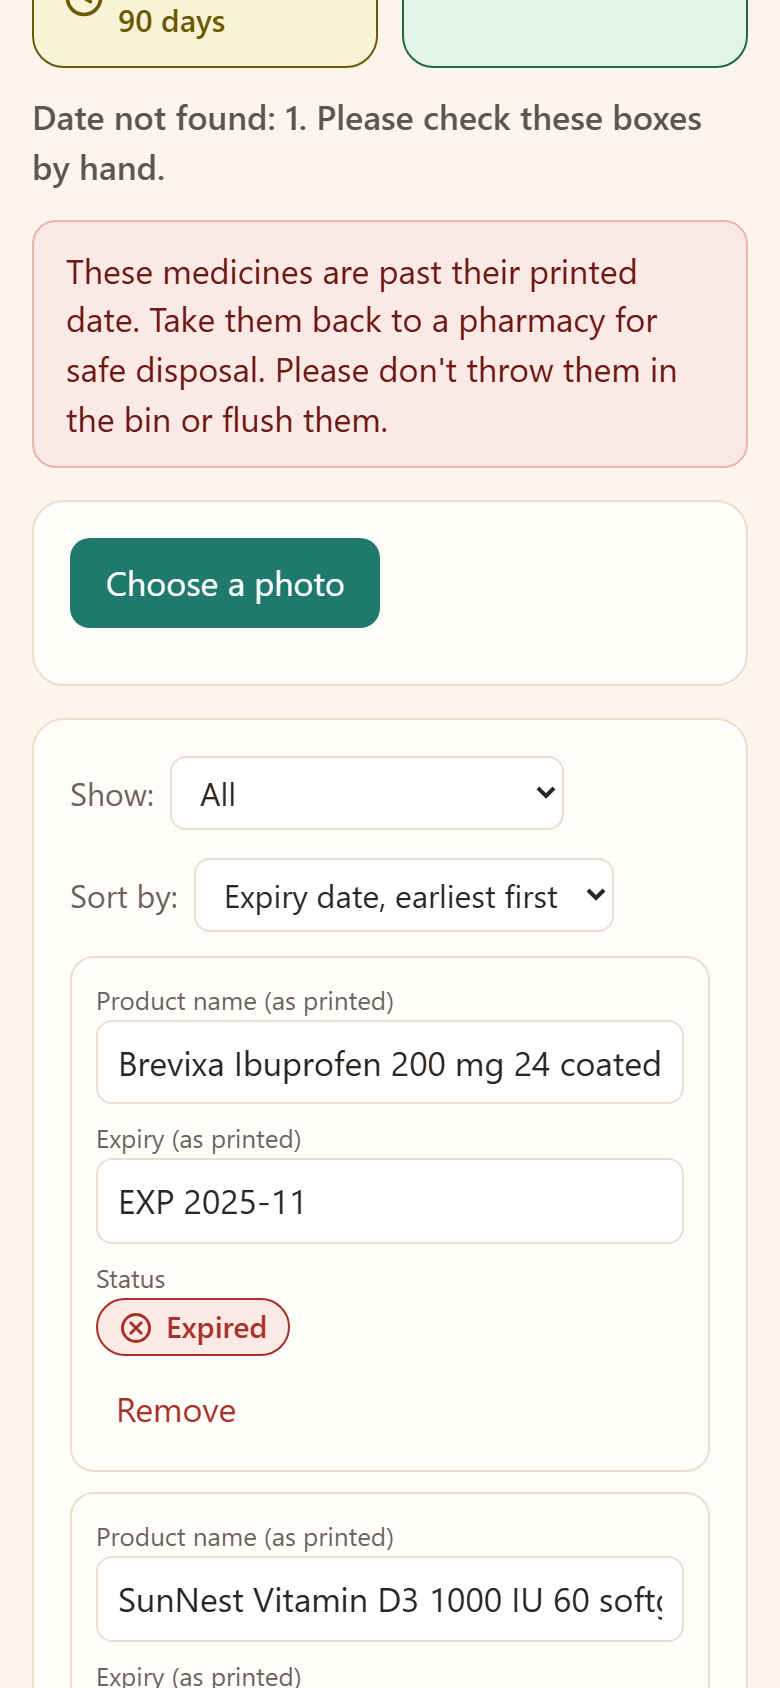
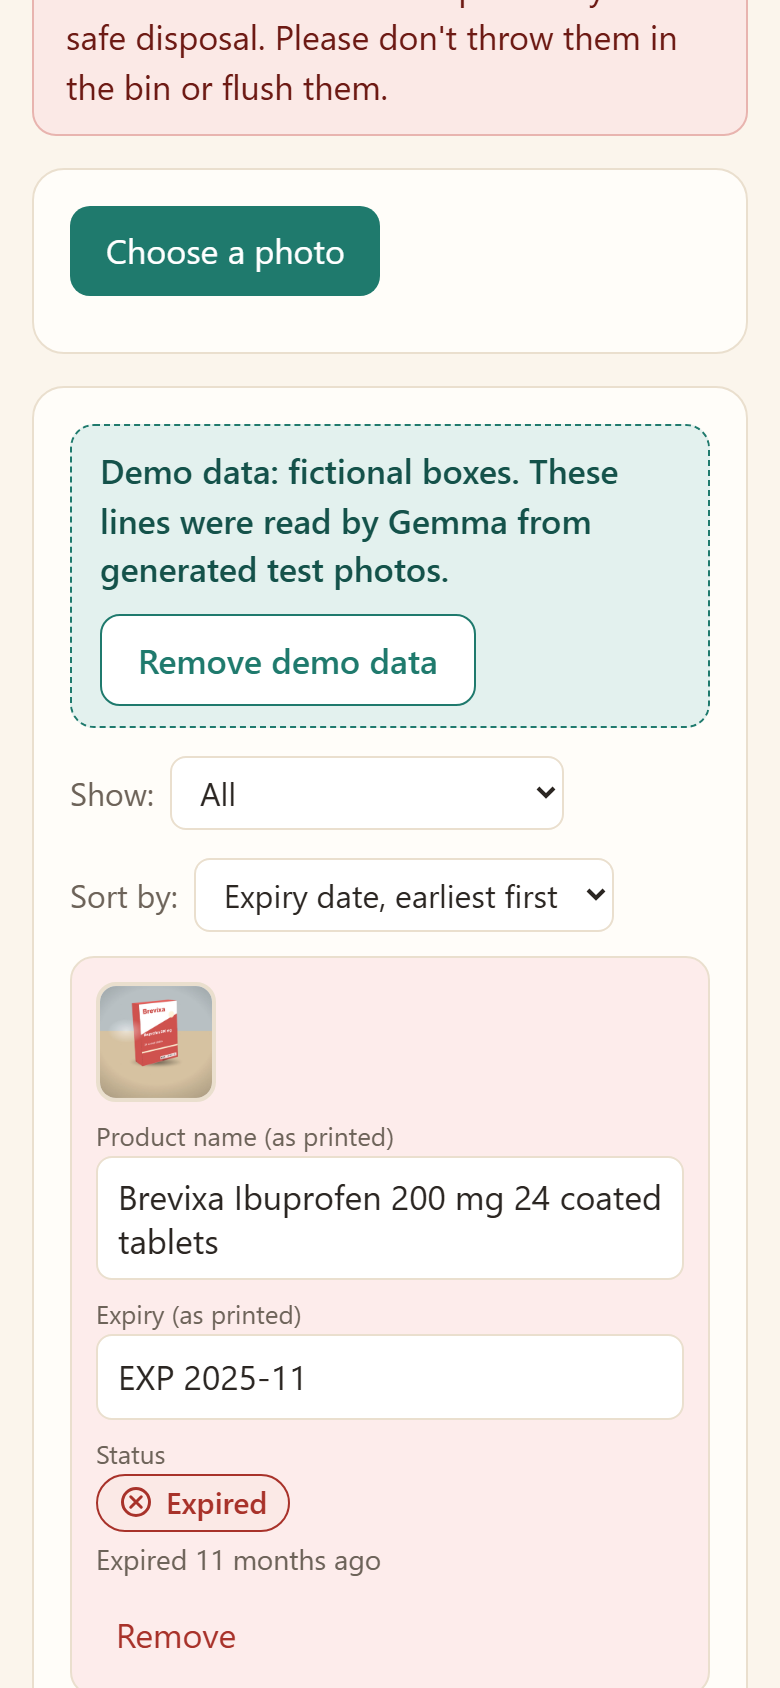
Update README and screenshots; strip stray byte-order marks

diff --git a/README.md b/README.md
@@ -2,7 +2,7 @@
 
 Take a photo of your medicine boxes. A **Gemma 3 vision model running locally on your laptop** (through [Ollama](https://ollama.com)) reads the boxes and builds a small inventory: product name as printed, expiry date, and a status (expired, expires within 30 days, expires within 90 days, OK). You can correct any line by hand. Expired items get a reminder to take them back to a pharmacy.
 
-**Nothing leaves your laptop.** No cloud APIs, no telemetry, no external fonts or scripts. The web server listens on `127.0.0.1` only, and its only outgoing connection is to Ollama on the same machine.
+**Nothing leaves your laptop.** No cloud APIs, no telemetry, no external fonts or scripts. The web server listens on `127.0.0.1` only, and its only outgoing connection is to Ollama on the same machine. The photos you scan stay only on your laptop, in `data/photos/`, so you can see where each line came from. They are deleted when the line is removed, or with "Clear all".
 
 > **Important.** Lazy Medicine Cabinet can misread labels. Always check each line against the real box. This tool gives no medical advice, doses or interaction information. Ask a pharmacist or doctor about your medicines.
 
@@ -12,11 +12,20 @@ Built for the DEV Hacktoberfest Open-Source AI Challenge (week 3, "Slow and Stea
 
 ## What's in the app
 
-- **Cabinet:** summary cards (Expired, Expires within 30 days, Expires within 90 days, OK; click one to filter), a filter and a sort by expiry date or name, and every line editable by hand. Your list is saved on your disk and is still there next session. "Clear all" asks first.
+- **Cabinet:** summary cards (Expired, Expires within 30 days, Expires within 90 days, OK; click one to filter), a filter and a sort by expiry date or name, and every line editable by hand. Each line shows the time left under its status ("68 days left", "Expires in 12 days", "Expired 2 months ago"), a light red background when expired and light amber within 30 days, and a small thumbnail of the photo it was read from (click it to see the photo larger). Long product names wrap instead of being cut off. Your list is saved on your disk and is still there next session. "Clear all" asks first.
+- **Demo cabinet:** on the empty screen, "Try the demo cabinet" loads 7 fictional boxes with the results Gemma actually produced for the generated test photos, clearly labelled "Demo data: fictional boxes". "Remove demo data" takes only those lines away and leaves your own.
 - **Pharmacy bag:** the expired items to take back to a pharmacy for safe disposal, plus the lines whose date could not be read ("check these boxes by hand"). "Print this list" prints only that list.
 - **Next check:** a date shown on top, three months ahead by default, that you can change. It is only a date on the screen: the app sends no notifications.
 - **About:** what it does, the privacy promise, how it works and the limits.
 - It works on a phone-sized screen too, and every status has an icon and a text label, never colour alone.
+
+The empty screen offers the demo cabinet:
+
+![The empty cabinet with the demo button](docs/screenshot-empty.png)
+
+Click a thumbnail to see the photo a line was read from:
+
+![The source photo, enlarged](docs/screenshot-photo-viewer.png)
 
 ![Pharmacy bag tab](docs/screenshot-pharmacy-bag.png)
 
@@ -30,7 +39,7 @@ On a phone-sized screen the lines stack as cards:
 
 ## How it works
 
-1. The browser shrinks your photo (longest side 1024 px) and sends it to the local server. The photo is not stored.
+1. The browser shrinks your photo (longest side 1024 px) and sends it to the local server. If the photo produced lines, the server keeps that copy in `data/photos/` for the thumbnails; it is deleted together with its last line.
 2. The server asks `gemma3:4b` (via `http://127.0.0.1:11434`) to copy the name and the expiry text **exactly as printed**. The prompt forbids describing uses, doses or advice.
 3. The app parses the printed date and computes the status **in code**, not with the model.
 4. You review and fix any line. Your list and the next-check date are saved in `data/cabinet.json` on your disk (a file from the first version, a bare list, is migrated automatically).
@@ -75,14 +84,14 @@ npm test
 - unit tests for date parsing and status boundaries (month-only dates, leap years, impossible dates),
 - unit tests for parsing the model's output (code fences, junk, duplicates) with a mocked Ollama,
 - unit tests for the inventory views (counts, filter, sort, pharmacy bag, next-check date maths, migration of old data),
-- Playwright end-to-end tests of the real app with a stand-in for Ollama (needs `npx playwright install chromium` once): scan, summary cards, filter and sort, pharmacy bag, next check, saved data, "Clear all", a phone-sized layout with no sideways scrolling, and a check that no request leaves localhost. 19 tests in total.
+- Playwright end-to-end tests of the real app with a stand-in for Ollama (needs `npx playwright install chromium` once): scan, summary cards, time left and row colours, filter and sort, thumbnails and the photo viewer, pharmacy bag, next check, saved data, "Clear all", photo files deleted with their last line, the demo cabinet, long names that must stay readable (desktop and phone), a phone-sized layout with no sideways scrolling, photo URLs that only serve our own files, and a check that no request leaves localhost. 26 tests in total.
 
-To re-run the model on the sample photos: `node tools/run-samples.mjs generated`, then `node tools/score.mjs results.json` (needs Ollama and ffmpeg).
+To re-run the model on the sample photos: `node tools/run-samples.mjs generated`, then `node tools/score.mjs results-v2-prompt.json` (needs Ollama and ffmpeg; set `LMC_RESULTS=name.json` to choose the output file).
 
 ## Privacy and safety
 
 - No cloud services, accounts, analytics or telemetry. Requests with a non-localhost `Host` header are refused.
-- Your own photos: put them in `samples/` (git-ignored) and your inventory lives in `data/` (git-ignored).
+- Your list and the photos you scan live in `data/` on your computer (git-ignored, never uploaded). Removing a line deletes its photo once no other line uses it, and "Clear all" deletes all of them. Your own test photos can go in `samples/` (also git-ignored).
 - The app never gives medical advice, doses or interactions, and it says so on screen. Take expired medicines back to a pharmacy for safe disposal; don't bin or flush them.
 
 ## License
